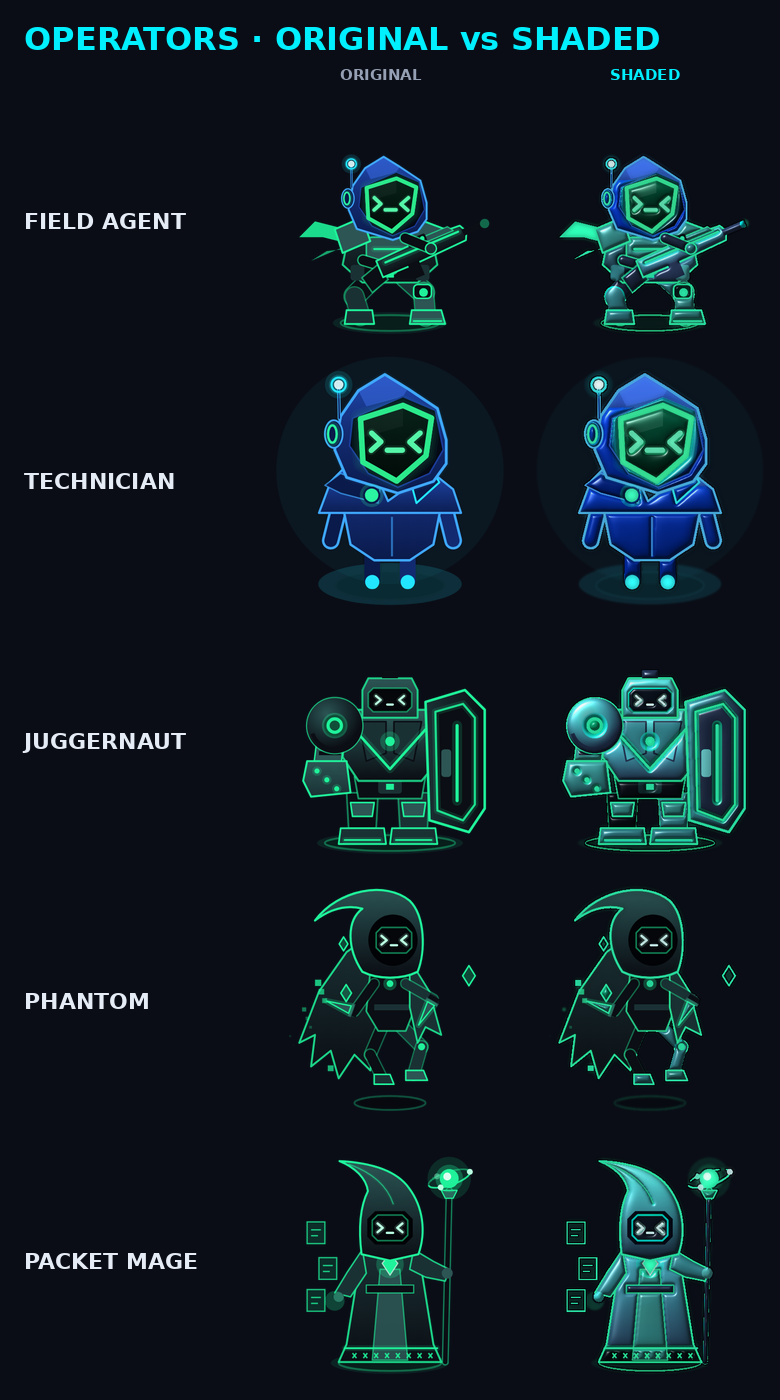
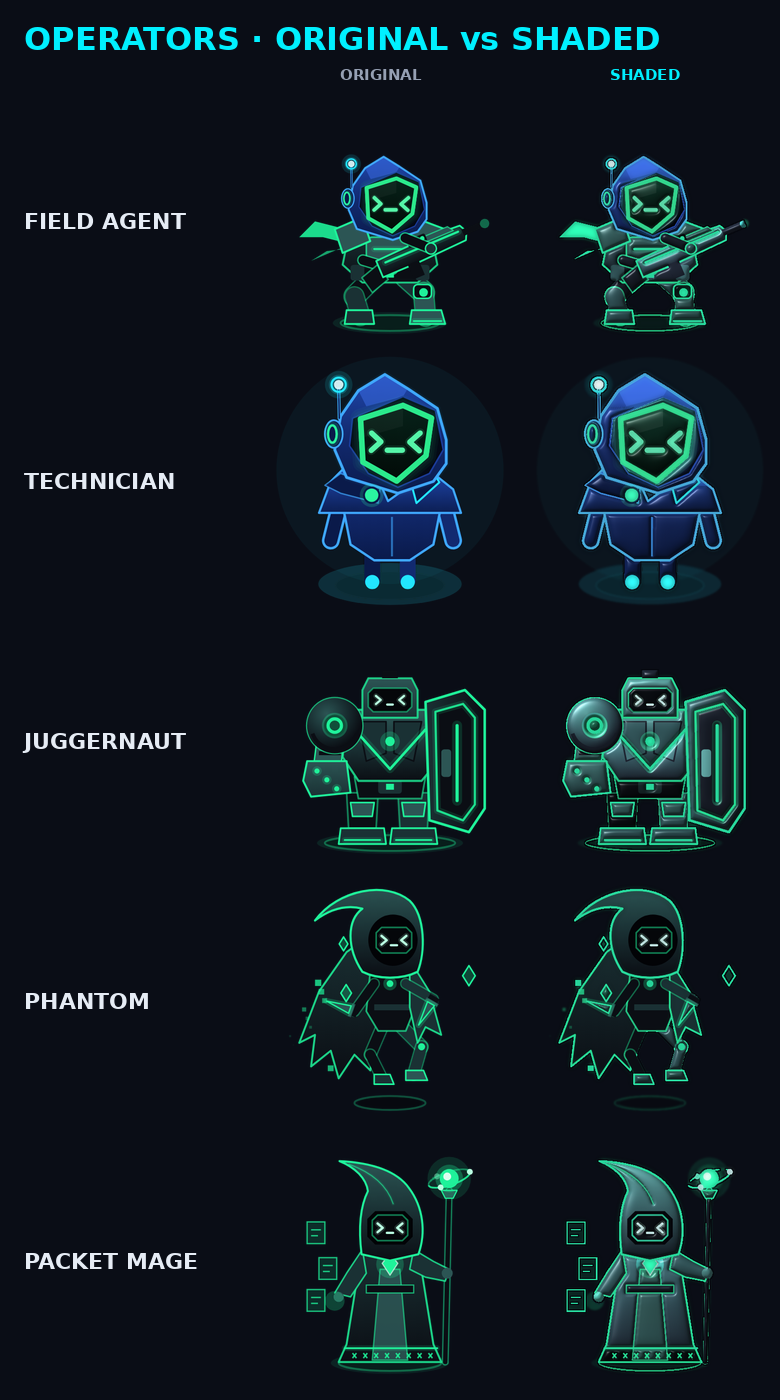
Operator concept v2: calmer colours (owner: a little too colorful)
Claude-Session: https://claude.ai/code/session_01J4fYSi9rfQR62SLnfyrDCN

diff --git a/tools/operators/shade_operators.py b/tools/operators/shade_operators.py
@@ -53,12 +53,12 @@ def shade(path, flat_cape=None):
         if v < 0.2 and enclosed > 0.03 and reg.sum() < 0.08 * total:
             kind[i] = 1; gain[i] = 0.09 / v          # visor plate round a face: stays near-black
         elif v < 0.12:
-            gain[i] = 0.3 / v                         # the dark armour: a deep tinted tone
+            gain[i] = 0.22 / v                        # the dark armour: a deep tinted tone
         else:
-            gain[i] = 0.66 / v                        # coloured panels: a rich mid-tone
+            gain[i] = 0.48 / v                        # coloured panels: a muted mid-tone (owner: "a little too colorful")
     px = rgb * gain[labels][..., None]
     grey = px.mean(-1, keepdims=True)
-    base_px = np.clip(grey + (px - grey) * 1.35, 0, 1)   # a little more saturated
+    base_px = np.clip(grey + (px - grey) * 0.85, 0, 1)   # slightly less saturated than the panel colour
     # rounded volumes: a soft bevel at every panel edge plus a broad dome over each panel
     fm = fill.astype(np.float32)
     height = (0.55 * ndimage.gaussian_filter(fm, 2.5) + 0.45 * ndimage.gaussian_filter(fm, 9)) * fm
@@ -76,7 +76,7 @@ def shade(path, flat_cape=None):
     base = base_px
     visor = (kind[labels] == 1) & fill
     lit = base * (0.42 + 0.75 * diff)[..., None] * fall[..., None] * ao[..., None]
-    lit = lit + (spec * np.where(visor, 0.6, 0.8))[..., None]
+    lit = lit + (spec * np.where(visor, 0.45, 0.5))[..., None]
     out = np.where(fill[..., None], lit, 0)
     # The Phantom's cape and hood stay as they were, unshaded (owner, after the v2 sheets):
     # its two biggest panels.
